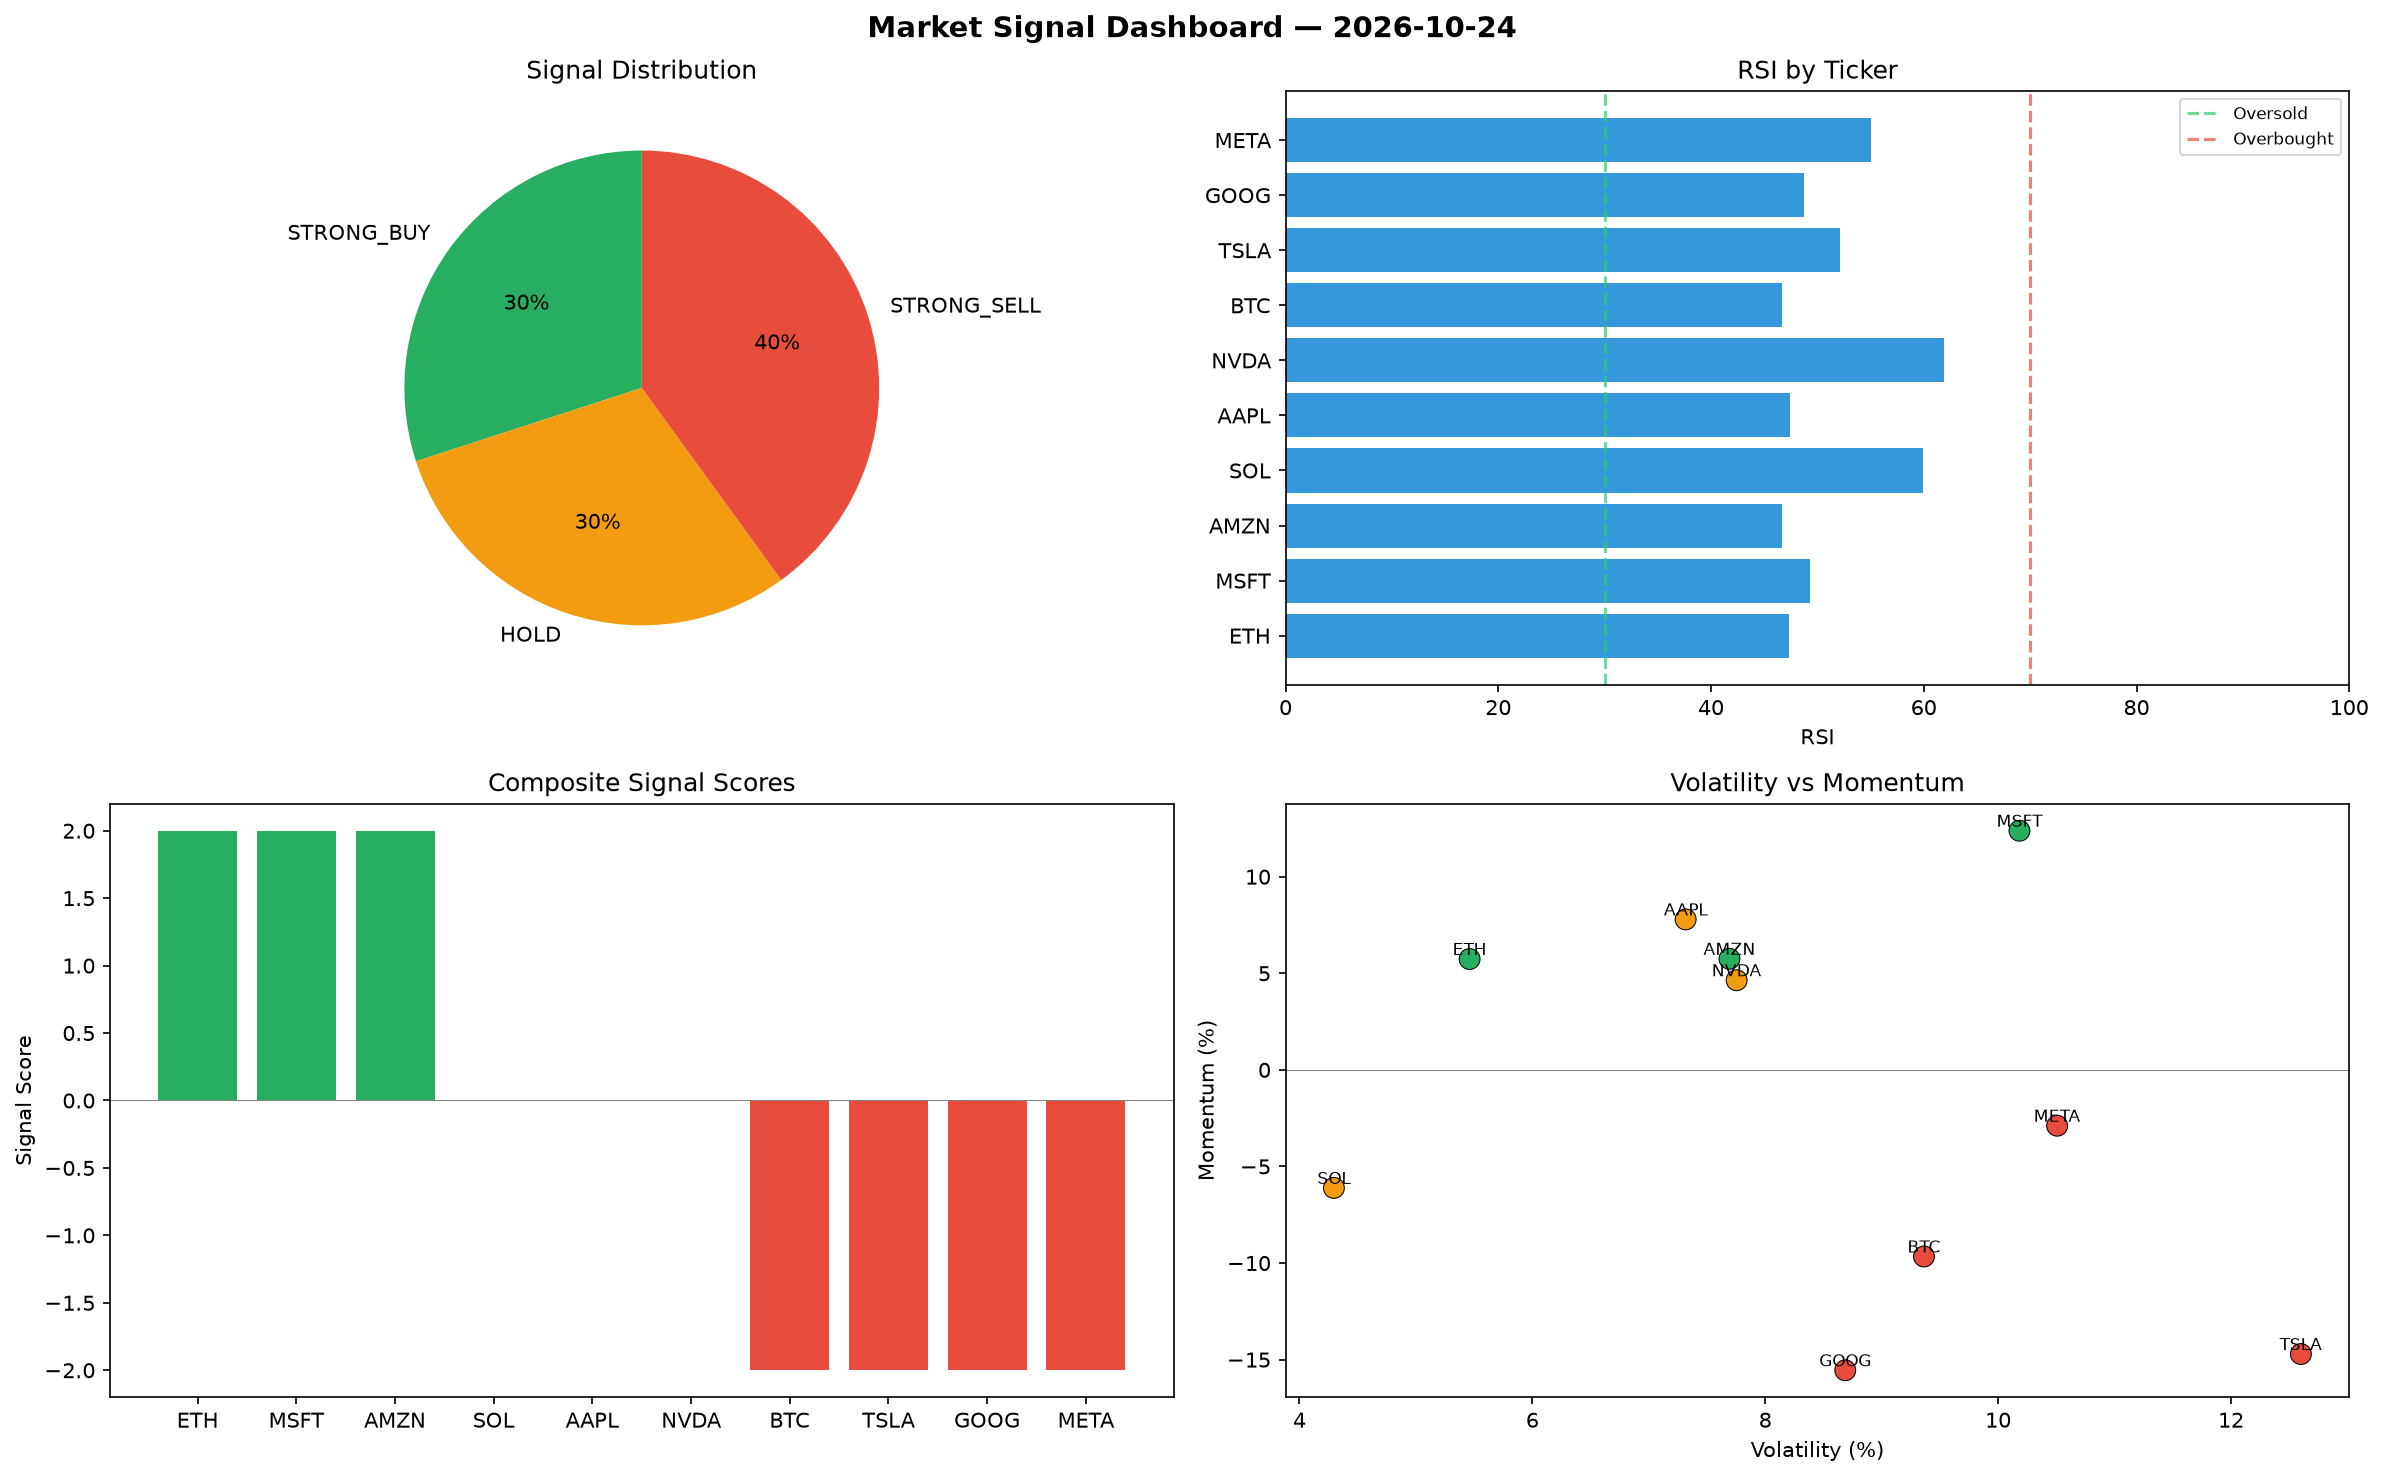
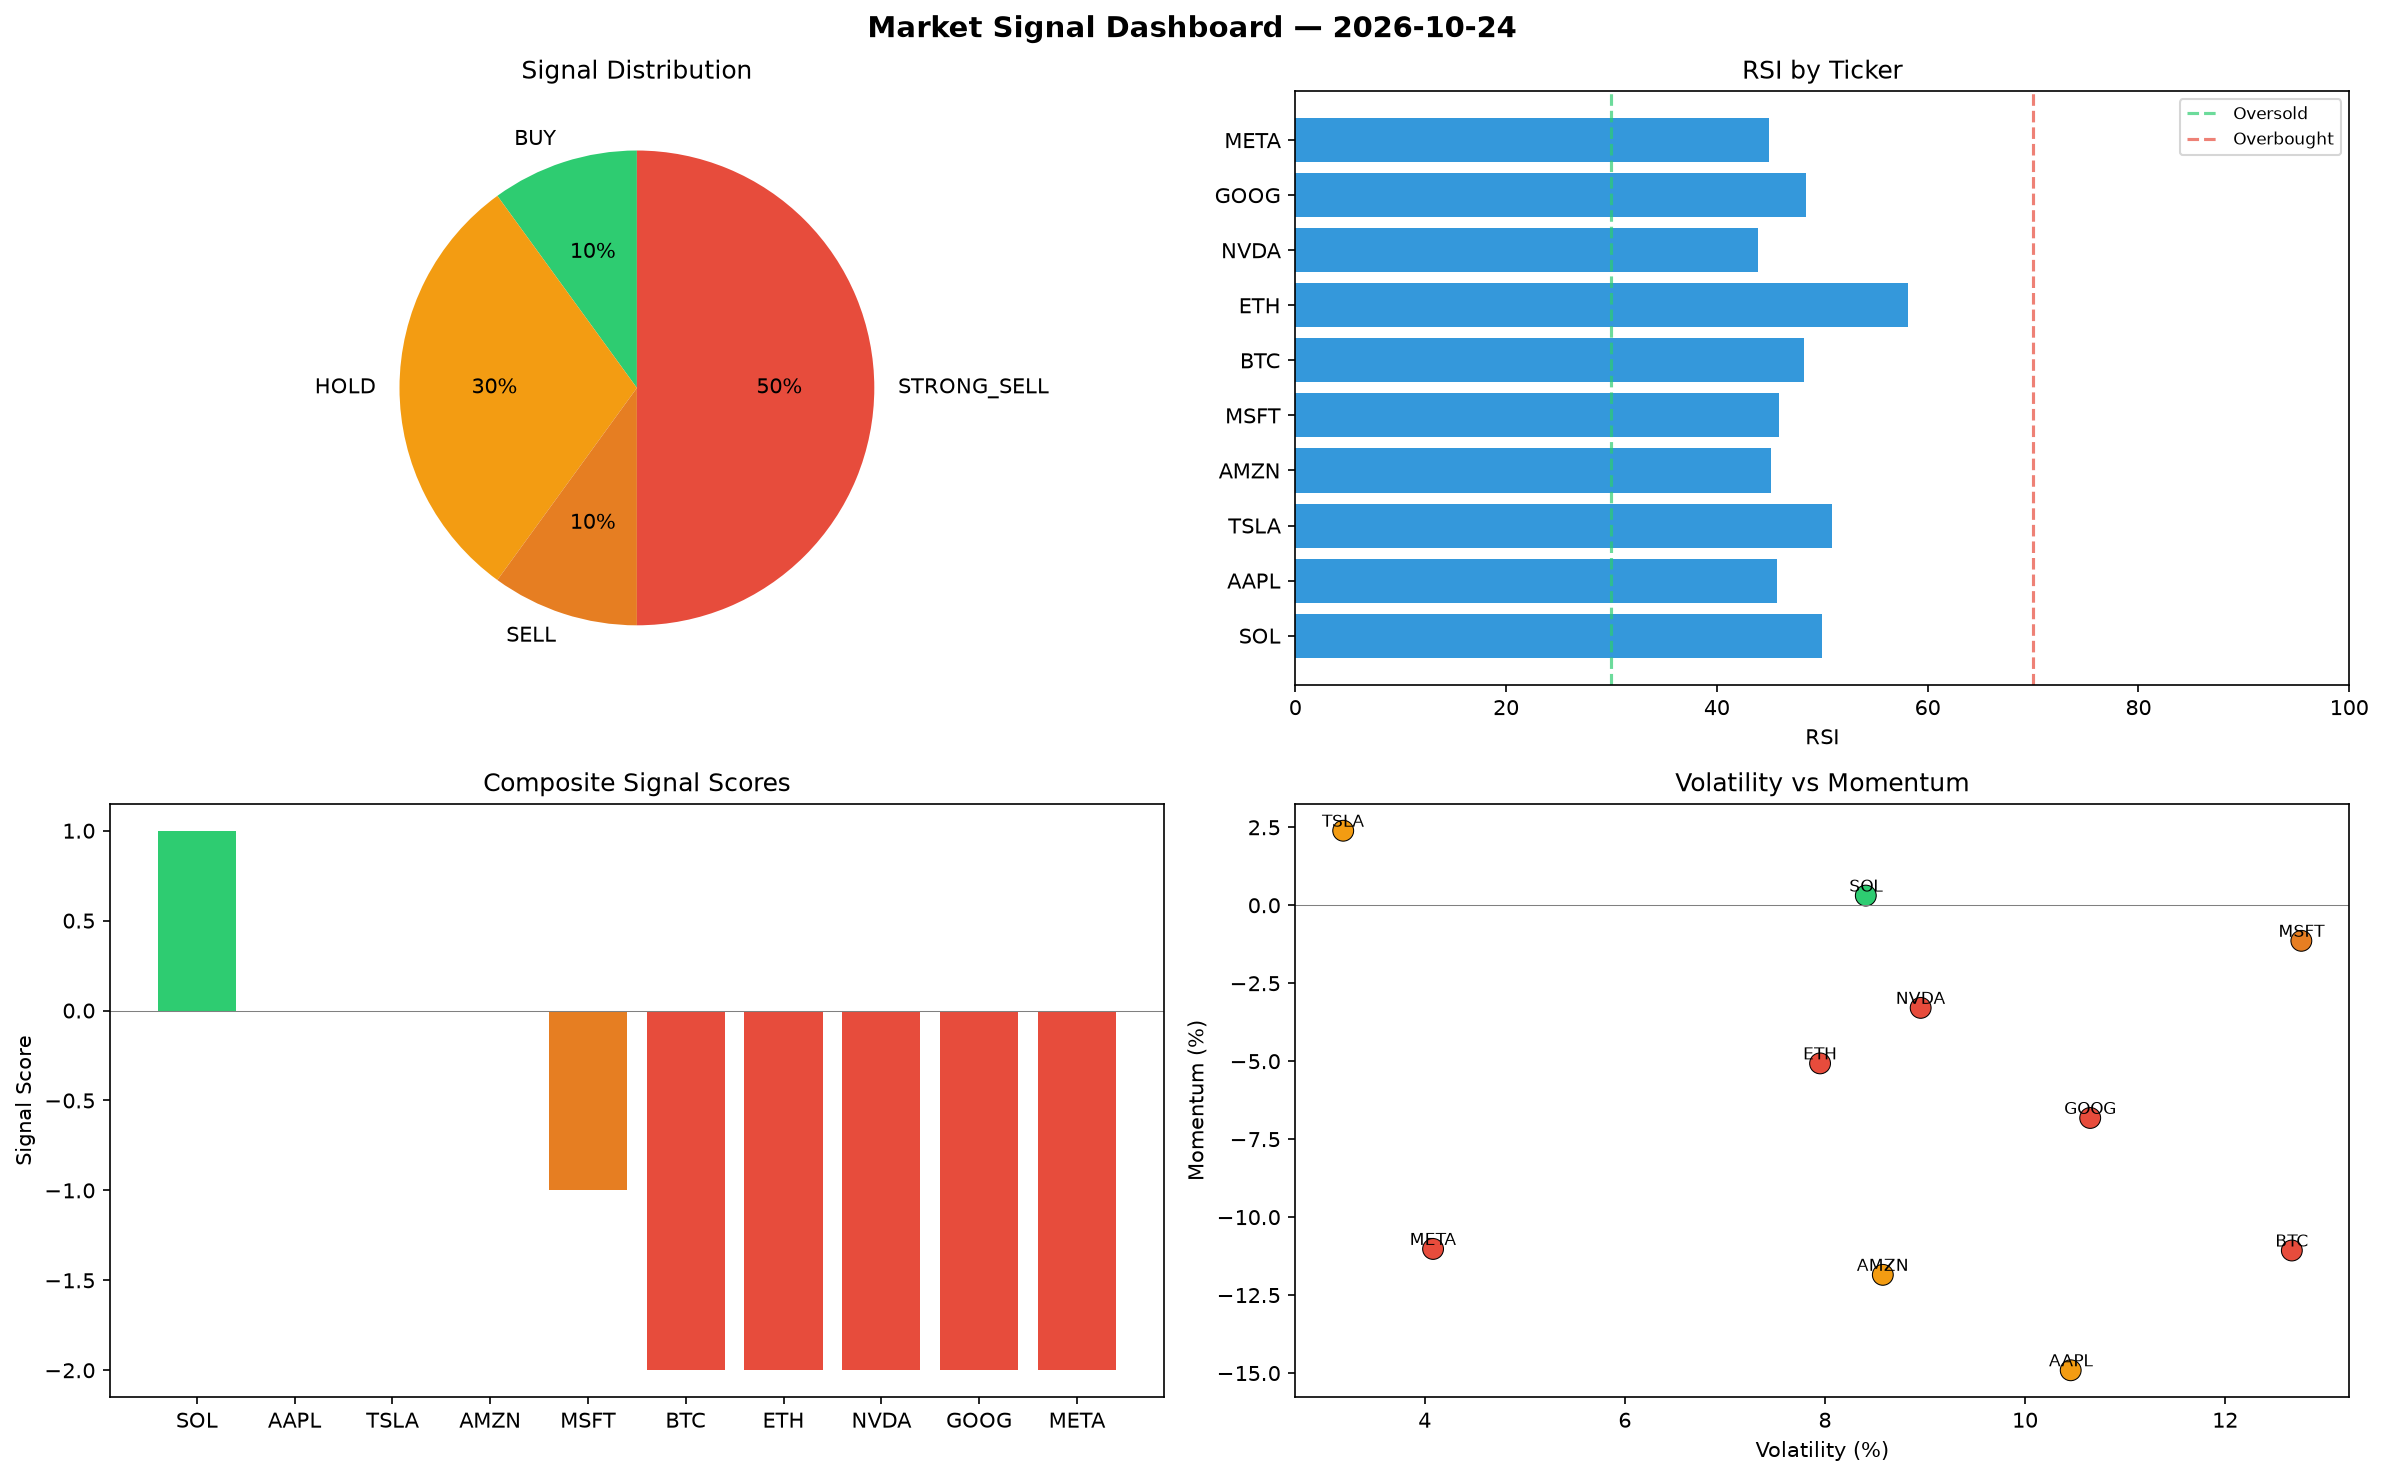
automated-bots: market signals 2026-10-24T17:31

diff --git a/logs/2026-10-24.md b/logs/2026-10-24.md
@@ -1,6 +1,6 @@
 # Market Signal Report — 2026-10-24
 
-**Run ID:** `aba51faaf0` | **Buy:** 3 | **Sell:** 4 | **Hold:** 3
+**Run ID:** `540eba993e` | **Buy:** 1 | **Sell:** 6 | **Hold:** 3
 
 ![Dashboard](2026-10-24_dashboard.png)
 
@@ -8,28 +8,28 @@
 
 | Ticker | Price | Signal | Score | RSI | Momentum | Confidence |
 |--------|-------|--------|-------|-----|----------|------------|
-| ETH | $2506.41 | **STRONG_BUY** | 2 | 47.34 | 0.0574 | 0.5 |
-| MSFT | $3284.75 | **STRONG_BUY** | 2 | 49.3 | 0.1238 | 0.5 |
-| AMZN | $262.43 | **STRONG_BUY** | 2 | 46.63 | 0.0575 | 0.5 |
-| SOL | $3070.35 | **HOLD** | 0 | 59.95 | -0.0611 | 0.0 |
-| AAPL | $1685.87 | **HOLD** | 0 | 47.46 | 0.0779 | 0.0 |
-| NVDA | $3472.93 | **HOLD** | 0 | 61.86 | 0.0464 | 0.0 |
-| BTC | $2141.72 | **STRONG_SELL** | -2 | 46.71 | -0.0966 | 0.5 |
-| TSLA | $1359.56 | **STRONG_SELL** | -2 | 52.11 | -0.1471 | 0.5 |
-| GOOG | $3070.39 | **STRONG_SELL** | -2 | 48.78 | -0.1555 | 0.5 |
-| META | $2535.1 | **STRONG_SELL** | -2 | 55.03 | -0.0289 | 0.5 |
+| SOL | $2633.84 | **BUY** | 1 | 50.0 | 0.0031 | 0.25 |
+| AAPL | $4569.71 | **HOLD** | 0 | 45.73 | -0.1491 | 0.0 |
+| TSLA | $4285.28 | **HOLD** | 0 | 50.91 | 0.0239 | 0.0 |
+| AMZN | $2934.47 | **HOLD** | 0 | 45.11 | -0.1185 | 0.0 |
+| MSFT | $2677.73 | **SELL** | -1 | 45.88 | -0.0114 | 0.25 |
+| BTC | $865.68 | **STRONG_SELL** | -2 | 48.31 | -0.1107 | 0.5 |
+| ETH | $3785.59 | **STRONG_SELL** | -2 | 58.18 | -0.0507 | 0.5 |
+| NVDA | $2049.09 | **STRONG_SELL** | -2 | 43.92 | -0.0329 | 0.5 |
+| GOOG | $1636.61 | **STRONG_SELL** | -2 | 48.44 | -0.0682 | 0.5 |
+| META | $4794.5 | **STRONG_SELL** | -2 | 44.93 | -0.1102 | 0.5 |
 
 ## Delta vs Yesterday
 
 | Ticker | Today | Yesterday | Price Change | Signal Changed |
 |--------|-------|-----------|-------------|----------------|
-| ETH | STRONG_BUY | STRONG_BUY | 📉 -3.85% | — |
-| MSFT | STRONG_BUY | STRONG_SELL | 📈 891.86% | ⚠ YES |
-| AMZN | STRONG_BUY | STRONG_SELL | 📉 -88.61% | ⚠ YES |
-| SOL | HOLD | STRONG_BUY | 📉 -10.93% | ⚠ YES |
-| AAPL | HOLD | STRONG_SELL | 📈 94.46% | ⚠ YES |
-| NVDA | HOLD | STRONG_BUY | 📈 377.82% | ⚠ YES |
-| BTC | STRONG_SELL | STRONG_SELL | 📈 33.91% | — |
-| TSLA | STRONG_SELL | STRONG_BUY | 📈 32.95% | ⚠ YES |
-| GOOG | STRONG_SELL | STRONG_BUY | 📈 93.01% | ⚠ YES |
-| META | STRONG_SELL | STRONG_SELL | 📈 197.47% | — |
+| SOL | BUY | STRONG_BUY | 📉 -23.6% | ⚠ YES |
+| AAPL | HOLD | STRONG_SELL | 📈 427.11% | ⚠ YES |
+| TSLA | HOLD | STRONG_BUY | 📈 319.06% | ⚠ YES |
+| AMZN | HOLD | STRONG_SELL | 📈 27.33% | ⚠ YES |
+| MSFT | SELL | STRONG_SELL | 📈 708.57% | ⚠ YES |
+| BTC | STRONG_SELL | STRONG_SELL | 📉 -45.87% | — |
+| ETH | STRONG_SELL | STRONG_BUY | 📈 45.22% | ⚠ YES |
+| NVDA | STRONG_SELL | STRONG_BUY | 📈 181.92% | ⚠ YES |
+| GOOG | STRONG_SELL | STRONG_BUY | 📈 2.88% | ⚠ YES |
+| META | STRONG_SELL | STRONG_SELL | 📈 462.58% | — |
